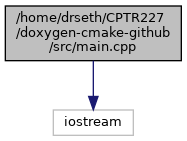
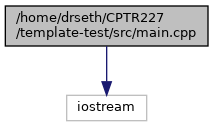
Initial commit

Changed region(s): [[0.0, 0.0236, 0.9893, 0.9685]]

diff --git a/docs/main_8cpp.html b/docs/main_8cpp.html
@@ -5,7 +5,7 @@
 <meta http-equiv="X-UA-Compatible" content="IE=9"/>
 <meta name="generator" content="Doxygen 1.8.17"/>
 <meta name="viewport" content="width=device-width, initial-scale=1"/>
-<title>aardvark: /home/drseth/CPTR227/doxygen-cmake-github/src/main.cpp File Reference</title>
+<title>template-test: /home/drseth/CPTR227/template-test/src/main.cpp File Reference</title>
 <link href="tabs.css" rel="stylesheet" type="text/css"/>
 <script type="text/javascript" src="jquery.js"></script>
 <script type="text/javascript" src="dynsections.js"></script>
@@ -21,7 +21,7 @@
  <tbody>
  <tr style="height: 56px;">
   <td id="projectalign" style="padding-left: 0.5em;">
-   <div id="projectname">aardvark
+   <div id="projectname">template-test
    &#160;<span id="projectnumber">0.3.0</span>
    </div>
   </td>
@@ -79,10 +79,10 @@ $(function() {
 </div><div class="textblock"><div class="dynheader">
 Include dependency graph for main.cpp:</div>
 <div class="dyncontent">
-<div class="center"><img src="main_8cpp__incl.png" border="0" usemap="#_2home_2drseth_2CPTR227_2doxygen-cmake-github_2src_2main_8cpp" alt=""/></div>
-<map name="_2home_2drseth_2CPTR227_2doxygen-cmake-github_2src_2main_8cpp" id="_2home_2drseth_2CPTR227_2doxygen-cmake-github_2src_2main_8cpp">
-<area shape="rect" title="This is a test of CMake, doxygen, and GitHub." alt="" coords="5,5,181,61"/>
-<area shape="rect" title=" " alt="" coords="53,109,133,136"/>
+<div class="center"><img src="main_8cpp__incl.png" border="0" usemap="#_2home_2drseth_2CPTR227_2template-test_2src_2main_8cpp" alt=""/></div>
+<map name="_2home_2drseth_2CPTR227_2template-test_2src_2main_8cpp" id="_2home_2drseth_2CPTR227_2template-test_2src_2main_8cpp">
+<area shape="rect" title="This is a test of CMake, doxygen, and GitHub." alt="" coords="5,5,208,47"/>
+<area shape="rect" title=" " alt="" coords="67,95,147,121"/>
 </map>
 </div>
 </div>

diff --git a/docs/index.html b/docs/index.html
@@ -5,7 +5,7 @@
 <meta http-equiv="X-UA-Compatible" content="IE=9"/>
 <meta name="generator" content="Doxygen 1.8.17"/>
 <meta name="viewport" content="width=device-width, initial-scale=1"/>
-<title>aardvark: Main Page</title>
+<title>template-test: Main Page</title>
 <link href="tabs.css" rel="stylesheet" type="text/css"/>
 <script type="text/javascript" src="jquery.js"></script>
 <script type="text/javascript" src="dynsections.js"></script>
@@ -21,7 +21,7 @@
  <tbody>
  <tr style="height: 56px;">
   <td id="projectalign" style="padding-left: 0.5em;">
-   <div id="projectname">aardvark
+   <div id="projectname">template-test
    &#160;<span id="projectnumber">0.3.0</span>
    </div>
   </td>
@@ -63,7 +63,7 @@ $(function() {
 
 <div class="header">
   <div class="headertitle">
-<div class="title">aardvark Documentation</div>  </div>
+<div class="title">template-test Documentation</div>  </div>
 </div><!--header-->
 <div class="contents">
 </div><!-- contents -->

diff --git a/docs/main_8cpp_source.html b/docs/main_8cpp_source.html
@@ -5,7 +5,7 @@
 <meta http-equiv="X-UA-Compatible" content="IE=9"/>
 <meta name="generator" content="Doxygen 1.8.17"/>
 <meta name="viewport" content="width=device-width, initial-scale=1"/>
-<title>aardvark: /home/drseth/CPTR227/doxygen-cmake-github/src/main.cpp Source File</title>
+<title>template-test: /home/drseth/CPTR227/template-test/src/main.cpp Source File</title>
 <link href="tabs.css" rel="stylesheet" type="text/css"/>
 <script type="text/javascript" src="jquery.js"></script>
 <script type="text/javascript" src="dynsections.js"></script>
@@ -21,7 +21,7 @@
  <tbody>
  <tr style="height: 56px;">
   <td id="projectalign" style="padding-left: 0.5em;">
-   <div id="projectname">aardvark
+   <div id="projectname">template-test
    &#160;<span id="projectnumber">0.3.0</span>
    </div>
   </td>

diff --git a/docs/dir_68267d1309a1af8e8297ef4c3efbcdba.html b/docs/dir_68267d1309a1af8e8297ef4c3efbcdba.html
@@ -5,7 +5,7 @@
 <meta http-equiv="X-UA-Compatible" content="IE=9"/>
 <meta name="generator" content="Doxygen 1.8.17"/>
 <meta name="viewport" content="width=device-width, initial-scale=1"/>
-<title>aardvark: /home/drseth/CPTR227/doxygen-cmake-github/src Directory Reference</title>
+<title>template-test: /home/drseth/CPTR227/template-test/src Directory Reference</title>
 <link href="tabs.css" rel="stylesheet" type="text/css"/>
 <script type="text/javascript" src="jquery.js"></script>
 <script type="text/javascript" src="dynsections.js"></script>
@@ -21,7 +21,7 @@
  <tbody>
  <tr style="height: 56px;">
   <td id="projectalign" style="padding-left: 0.5em;">
-   <div id="projectname">aardvark
+   <div id="projectname">template-test
    &#160;<span id="projectnumber">0.3.0</span>
    </div>
   </td>

diff --git a/docs/globals.html b/docs/globals.html
@@ -5,7 +5,7 @@
 <meta http-equiv="X-UA-Compatible" content="IE=9"/>
 <meta name="generator" content="Doxygen 1.8.17"/>
 <meta name="viewport" content="width=device-width, initial-scale=1"/>
-<title>aardvark: File Members</title>
+<title>template-test: File Members</title>
 <link href="tabs.css" rel="stylesheet" type="text/css"/>
 <script type="text/javascript" src="jquery.js"></script>
 <script type="text/javascript" src="dynsections.js"></script>
@@ -21,7 +21,7 @@
  <tbody>
  <tr style="height: 56px;">
   <td id="projectalign" style="padding-left: 0.5em;">
-   <div id="projectname">aardvark
+   <div id="projectname">template-test
    &#160;<span id="projectnumber">0.3.0</span>
    </div>
   </td>

diff --git a/docs/globals_func.html b/docs/globals_func.html
@@ -5,7 +5,7 @@
 <meta http-equiv="X-UA-Compatible" content="IE=9"/>
 <meta name="generator" content="Doxygen 1.8.17"/>
 <meta name="viewport" content="width=device-width, initial-scale=1"/>
-<title>aardvark: File Members</title>
+<title>template-test: File Members</title>
 <link href="tabs.css" rel="stylesheet" type="text/css"/>
 <script type="text/javascript" src="jquery.js"></script>
 <script type="text/javascript" src="dynsections.js"></script>
@@ -21,7 +21,7 @@
  <tbody>
  <tr style="height: 56px;">
   <td id="projectalign" style="padding-left: 0.5em;">
-   <div id="projectname">aardvark
+   <div id="projectname">template-test
    &#160;<span id="projectnumber">0.3.0</span>
    </div>
   </td>

diff --git a/docs/graph_legend.html b/docs/graph_legend.html
@@ -5,7 +5,7 @@
 <meta http-equiv="X-UA-Compatible" content="IE=9"/>
 <meta name="generator" content="Doxygen 1.8.17"/>
 <meta name="viewport" content="width=device-width, initial-scale=1"/>
-<title>aardvark: Graph Legend</title>
+<title>template-test: Graph Legend</title>
 <link href="tabs.css" rel="stylesheet" type="text/css"/>
 <script type="text/javascript" src="jquery.js"></script>
 <script type="text/javascript" src="dynsections.js"></script>
@@ -21,7 +21,7 @@
  <tbody>
  <tr style="height: 56px;">
   <td id="projectalign" style="padding-left: 0.5em;">
-   <div id="projectname">aardvark
+   <div id="projectname">template-test
    &#160;<span id="projectnumber">0.3.0</span>
    </div>
   </td>

diff --git a/docs/files.html b/docs/files.html
@@ -5,7 +5,7 @@
 <meta http-equiv="X-UA-Compatible" content="IE=9"/>
 <meta name="generator" content="Doxygen 1.8.17"/>
 <meta name="viewport" content="width=device-width, initial-scale=1"/>
-<title>aardvark: File List</title>
+<title>template-test: File List</title>
 <link href="tabs.css" rel="stylesheet" type="text/css"/>
 <script type="text/javascript" src="jquery.js"></script>
 <script type="text/javascript" src="dynsections.js"></script>
@@ -21,7 +21,7 @@
  <tbody>
  <tr style="height: 56px;">
   <td id="projectalign" style="padding-left: 0.5em;">
-   <div id="projectname">aardvark
+   <div id="projectname">template-test
    &#160;<span id="projectnumber">0.3.0</span>
    </div>
   </td>

diff --git a/README.md b/README.md
@@ -1,2 +1,2 @@
-# doxygen-cmake-github
-Demonstrates Doxygen html generation and publishing on GitHub
+# template-test
+Demonstrates Doxygen html generation and publishing on GitHub using templating
